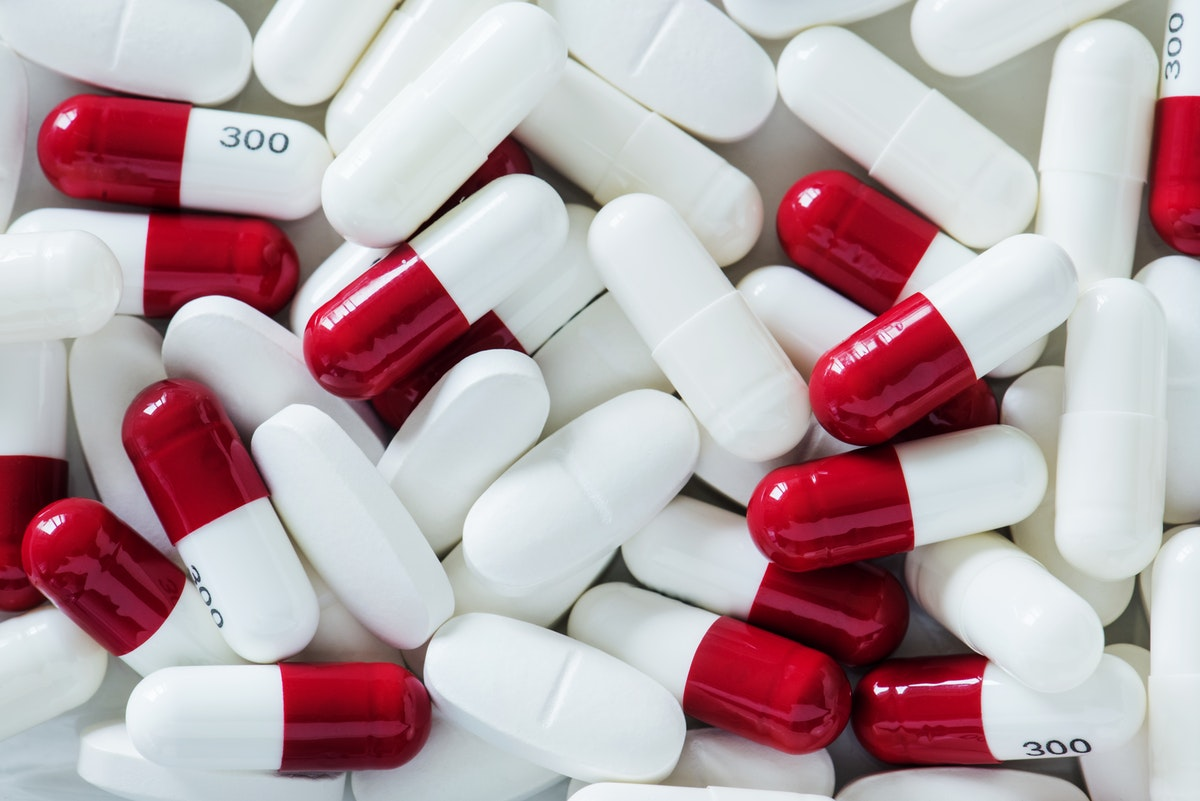
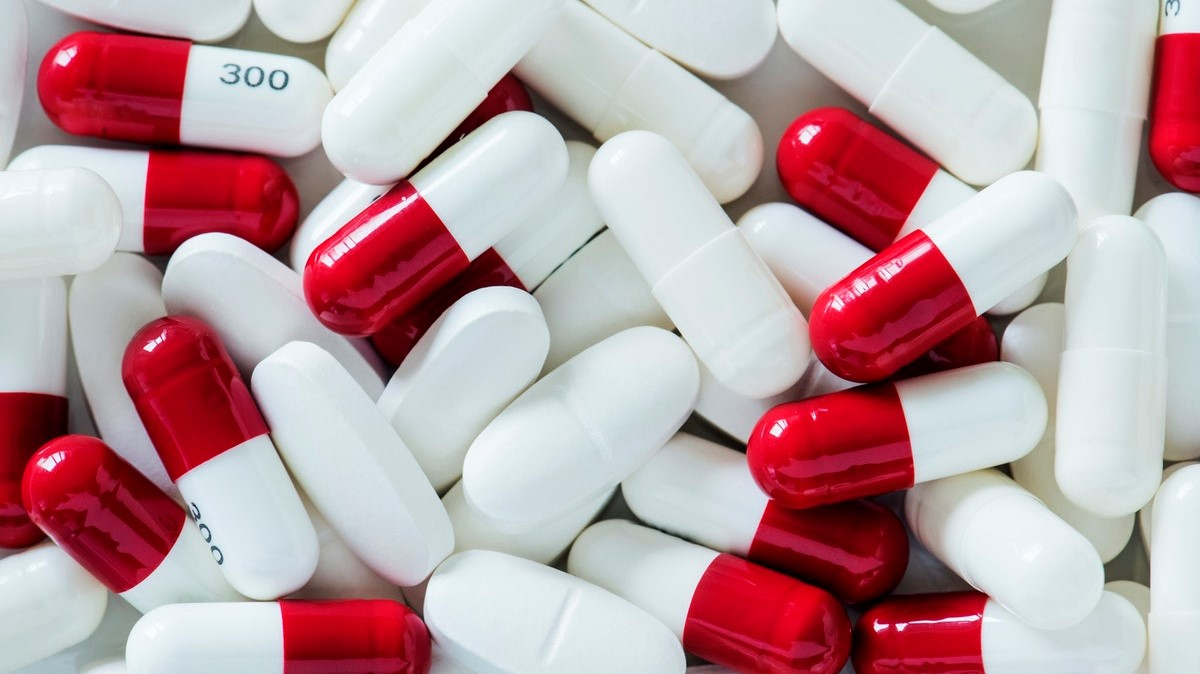
Optimize image sizing

diff --git a/pages/global.css b/pages/global.css
@@ -86,7 +86,7 @@ pre[class*='language-'] {
 /* Code blocks */
 pre[class*='language-'] {
   overflow: auto;
-  padding: 1.3125rem;
+  padding: 1rem;
 }
 
 pre[class*='language-']::-moz-selection {
@@ -192,8 +192,8 @@ pre[data-line] {
 .remark-highlight-code-line {
   background-color: var(--codeHighlightBg);
   display: block;
-  margin-right: -1.3125rem;
-  margin-left: -1.3125rem;
+  margin-right: -1rem;
+  margin-left: -1rem;
   padding-right: 1em;
   padding-left: 1.25em;
   border-left: 0.25em solid var(--textLink);
@@ -201,15 +201,15 @@ pre[data-line] {
 
 .remark-highlight {
   margin-bottom: 1.75rem;
-  margin-left: -1.3125rem;
-  margin-right: -1.3125rem;
+  margin-left: -1rem;
+  margin-right: -1rem;
   border-radius: 10px;
   background-color: var(--bg-secondary);
   -webkit-overflow-scrolling: touch;
   overflow: auto;
 }
 
-@media (max-width: 672px) {
+@media (max-width: 40rem) {
   .remark-highlight {
     border-radius: 0;
   }

diff --git a/utils/typography.js b/utils/typography.js
@@ -60,8 +60,8 @@ const typographyOptions = {
       background: 'var(--hr)',
     },
     blockquote: {
-      margin: '0 -1.3125rem 1.45rem',
-      padding: '0 1.3125rem 0 calc(1.3125rem - 3px)',
+      margin: '0 -1rem 1.45rem',
+      padding: '0 1rem 0 calc(1rem - 3px)',
       color: 'var(--textNormal)',
       fontStyle: 'italic',
       borderLeft: '3px solid var(--textLink)',
@@ -69,6 +69,9 @@ const typographyOptions = {
     'blockquote > *': {
       opacity: 0.8,
     },
+    small: {
+      fontSize: "75%",
+    }
   }),
 };
 

diff --git a/components/Panel.js b/components/Panel.js
@@ -5,9 +5,9 @@ function Panel({ children, style = {} }) {
     <p
       style={{
         borderRadius: '10px',
-        padding: '1.3125rem',
-        marginLeft: '-1.3125rem',
-        marginRight: '-1.3125rem',
+        padding: '1rem',
+        marginLeft: '-1rem',
+        marginRight: '-1rem',
         background: 'var(--inlineCode-bg)',
         wordBreak: 'keep-all',
         ...style,

diff --git a/pages/index.js b/pages/index.js
@@ -49,6 +49,7 @@ export default function ArticleList({ articles }) {
                         alt={heroImageAlt}
                         layout="fill"
                         objectFit="cover"
+                        sizes="(max-width: 40rem) 356px, 187px"
                       />
                     </figure>
                   </article>

diff --git a/pages/[slug].js b/pages/[slug].js
@@ -50,6 +50,7 @@ export default function Article({
                 alt={heroImageAlt}
                 layout="fill"
                 objectFit="cover"
+                sizes="(max-width: 40rem) 100vh, 38rem"
                 className={styles.heroImage}
               />
             </figure>

diff --git a/pages/index.module.css b/pages/index.module.css
@@ -34,8 +34,9 @@
 
 .articlePreviewImage {
   position: relative;
-  flex-basis: 10%;
   margin-left: 0.875rem;
-  min-width: 3.5rem;
+  width: 3.5rem;
+  max-width: 10%;
   margin-bottom: 0;
+  flex-shrink: 0;
 }

diff --git a/components/Layout.module.css b/components/Layout.module.css
@@ -9,7 +9,7 @@
   margin-left: auto;
   margin-right: auto;
   max-width: 40rem;
-  padding: 3rem 1.3125rem;
+  padding: 3rem 1rem;
 }
 
 .header {

diff --git a/pages/[slug].module.css b/pages/[slug].module.css
@@ -1,4 +1,5 @@
 .figure {
     position: relative;
-    height: 33vh;
+    height: 21.375rem;
+    max-height: 33vh;
 }

diff --git a/articles/future-proof-data-fetching-with-react/index.md b/articles/future-proof-data-fetching-with-react/index.md
@@ -1,7 +1,7 @@
 ---
 title: Future-Proof Data Fetching with React
 date: '2020-02-23'
-spoiler: 'Starting small but staying extensible. Only using the built-in reactivity and primitives in React - no additional library required'
+spoiler: 'With this pattern, you will lay a solid foundation for your data fetching: Start small but stay extensible. Only using the built-in primitives'
 cta: 'react'
 heroImageAlt: 'Several medical capsules'
 ---
